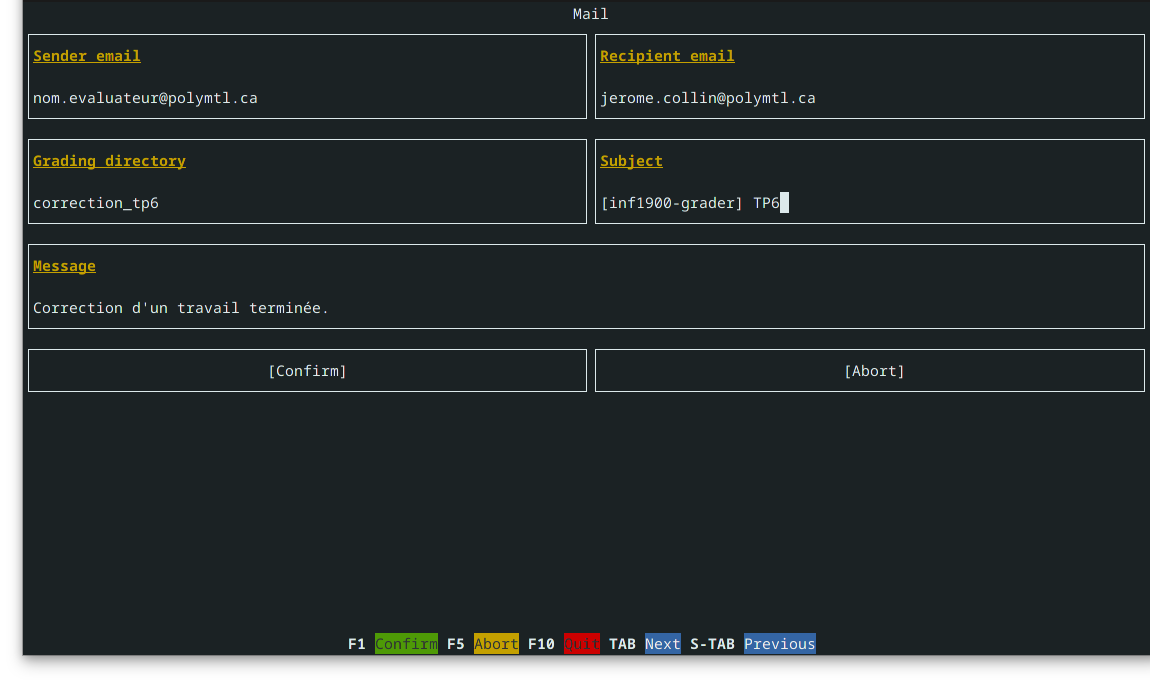
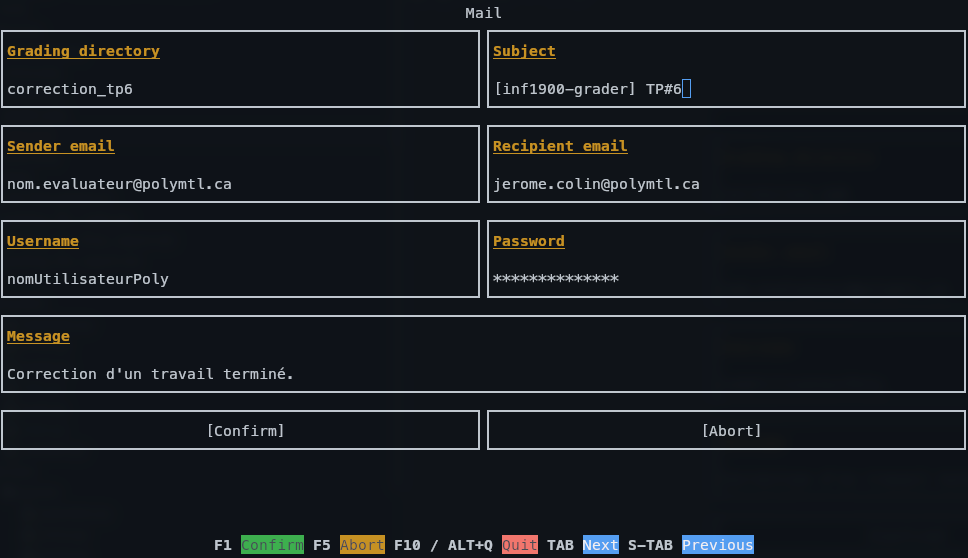
Fixed poly smtp (#38)
* Added email login

* Fixed typo

* Added alt+q as exit shortcut

* Resolved pr comments

* Removed spaces from sample files

Changed region(s): [[0.0, 0.0, 1.0, 1.0]]

diff --git a/src/models/mail.py b/src/models/mail.py
@@ -46,12 +46,16 @@ class Mail:
         self.msg = msg
         self.sent = False
 
-    def send(self, smtp_addr: str = "smtp.polymtl.ca", port: int = 587):
+    def send(self, username: str, password: str, smtp_addr: str = "smtp.polymtl.ca", port: int = 587):
 
         if self.sent:
             raise MailException("Mail was already sent!")
 
         smtp = smtplib.SMTP(smtp_addr, port)
+
+        smtp.starttls()
+        smtp.login(username, password)
+
         smtp.send_message(self.msg, self.msg["From"], self.msg["To"])
         smtp.quit()
 
@@ -70,7 +74,7 @@ def get_grade_file_path(grading_directory: str):
 
 
 def mail(sender_email: str, recipient_email: str,
-         subject: str, message: str, grading_directory: str):
+         subject: str, message: str, grading_directory: str, username: str, password: str):
     ensure_grading_directory_exists(grading_directory)
     validate_email_address(sender_email)
     validate_email_address(recipient_email)
@@ -80,4 +84,4 @@ def mail(sender_email: str, recipient_email: str,
     grades_file = get_grade_file_path(grading_directory)
     attachment_name = basename(grades_file)
     attachments = [MailAttachment("text/csv", grades_file, attachment_name)]
-    Mail(sender_email, recipient_email, subject, message, attachments).send()
+    Mail(sender_email, recipient_email, subject, message, attachments).send(username, password)

diff --git a/src/views/tui.py b/src/views/tui.py
@@ -36,13 +36,13 @@ class TUI:
         self.keybind = {}
 
         self.main_helper_text = self.generate_helper_text([
-            ("F10", "Quit", "helper_text_red"),
+            ("F10 / ALT+Q", "Quit", "helper_text_red"),
         ])
 
         self.subview_helper_text = self.generate_helper_text([
             ("F1", "Confirm", "helper_text_green"),
             ("F5", "Abort", "helper_text_brown"),
-            ("F10", "Quit", "helper_text_red"),
+            ("F10 / ALT+Q", "Quit", "helper_text_red"),
             ("TAB", "Next", "helper_text_light"),
             ("S-TAB", "Previous", "helper_text_light")
         ])
@@ -53,6 +53,7 @@ class TUI:
         self.loop = MainLoop(self.root, palette, unhandled_input=self.unhandled_input)
 
         self.bind_global("f10", self.quit)
+        self.bind_global("meta q", self.quit)
         self.handle_os_signals()
 
     def generate_main_view(self):

diff --git a/src/views/panels/mail.py b/src/views/panels/mail.py
@@ -14,9 +14,13 @@ class MailPanel(Form):
         subject = LineBox(Edit(("header", "Subject\n\n"), state.subject))
         message = LineBox(Edit(("header", "Message\n\n"), state.message, multiline=True))
 
+        username = LineBox(Edit(("header", "Username\n\n"), ""))
+        password = LineBox(Edit(("header", "Password\n\n"), "", mask="*"))
+
         grid_elements = [
-            {"sender_email": sender, "recipient_email": recipient},
             {"grading_directory": grading_directory, "subject": subject},
+            {"sender_email": sender, "recipient_email": recipient},
+            {"username": username, "password": password},
             {"message": message},
         ]
 

diff --git a/samples/grading_file_code.md b/samples/grading_file_code.md
@@ -4,7 +4,7 @@ Département de génie informatique et génie logiciel
 
 INF1900: Projet initial de système embarqué
 
-# Grille de correction des programmes:
+# Grille de correction des programmes
 
 Identification:
 + Travail    : __TRAVAIL_PRATIQUE__
@@ -13,7 +13,7 @@ Identification:
 + Correcteur : __CORRECTEUR__
 
 # LISIBILITÉ
-## En-têtes en début de programme   
+## En-têtes en début de programme
 
 | Pénalité par erreur                          | -1.5       |
 | -------------------------------------------- | ---------- |
@@ -45,7 +45,7 @@ Bonnes raisons d'un commentaire
 | __Résultat partiel__                         | __(/1.0)__ |
 
 
-## Indentation   
+## Indentation
 
 | Points importants                            | Poids      |
 | -------------------------------------------- | ---------- |
@@ -88,14 +88,14 @@ Bonnes raisons d'un commentaire
 | __Résultat partiel__                         | __(/3.0)__ |
 
 
-## Compilation    
+## Compilation
 
 | Points importants                            | Poids      |
 | -------------------------------------------- | ---------- |
 | Absence de messages d'erreurs de compilation | (/1.5)     |
 | Absence de messages d'attention (*warning*)  | (/0.5)     |
 | __Résultat partiel__                         | __(/2.0)__ |
-   
+
 
 ## Évaluation boîte noire  
 
@@ -109,6 +109,6 @@ Bonnes raisons d'un commentaire
 
 __Total des points: /20__
 
-# Commentaires du correcteur:
+# Commentaires du correcteur :
 
 À remplir par l'évaluateur

diff --git a/samples/grading_file_report.md b/samples/grading_file_report.md
@@ -4,7 +4,7 @@ Département de génie informatique et génie logiciel
 
 INF1900: Projet initial de système embarqué
 
-# Grille de correction des programmes:
+# Grille de correction des programmes
 
 Identification:
 + Travail    : __TRAVAIL_PRATIQUE__
@@ -31,7 +31,7 @@ Identification:
 | __Résultat partiel__                                                        | __(/7.0)__ |
 
 # GÉNÉRALITÉS
-## Bonne soumission de l'ensemble du code et du rapport selon le format demandé 
+## Bonne soumission de l'ensemble du code et du rapport selon le format demandé
 
 | Pénalité par erreur      | -0.5       |
 | ------------------------ | ---------- |
@@ -44,6 +44,6 @@ Identification:
 
 __Total des points: /20__
 
-# Commentaires du correcteur:
+# Commentaires du correcteur :
 
 À remplir par l'évaluateur

diff --git a/readme.md b/readme.md
@@ -49,10 +49,12 @@
 
 ## mail
 - `mail` enverra un email à Jérôme et joindra le fichier de notes `csv` (voir section [assemble](#assemble)).
-- `Sender email` est votre adresse email.
-- `Recipient email` est le responsable du cours.
 - `Grading directory` correspond au dossier de correction où les répertoires du groupe ont été clonés (voir section [clone](#clone)).
 - `Subject` le sujet du email.
+- `Sender email` est votre adresse email.
+- `Recipient email` est le responsable du cours.
+- `Username` est le nom d'utilisateur polytechnique lié au email d'envoi.
+- `Password` est le mot de passe polytechnique lié au email d'envoi.
 - `Message` correspond au message du email.
 
   ![mail](resources/mail.png)

diff --git a/samples/grading_file_final_report.md b/samples/grading_file_final_report.md
@@ -57,7 +57,7 @@ __Barème:__
 
 __Total des points: /20__
 
-# Commentaires du correcteur:
+# Commentaires du correcteur :
 
 
 
